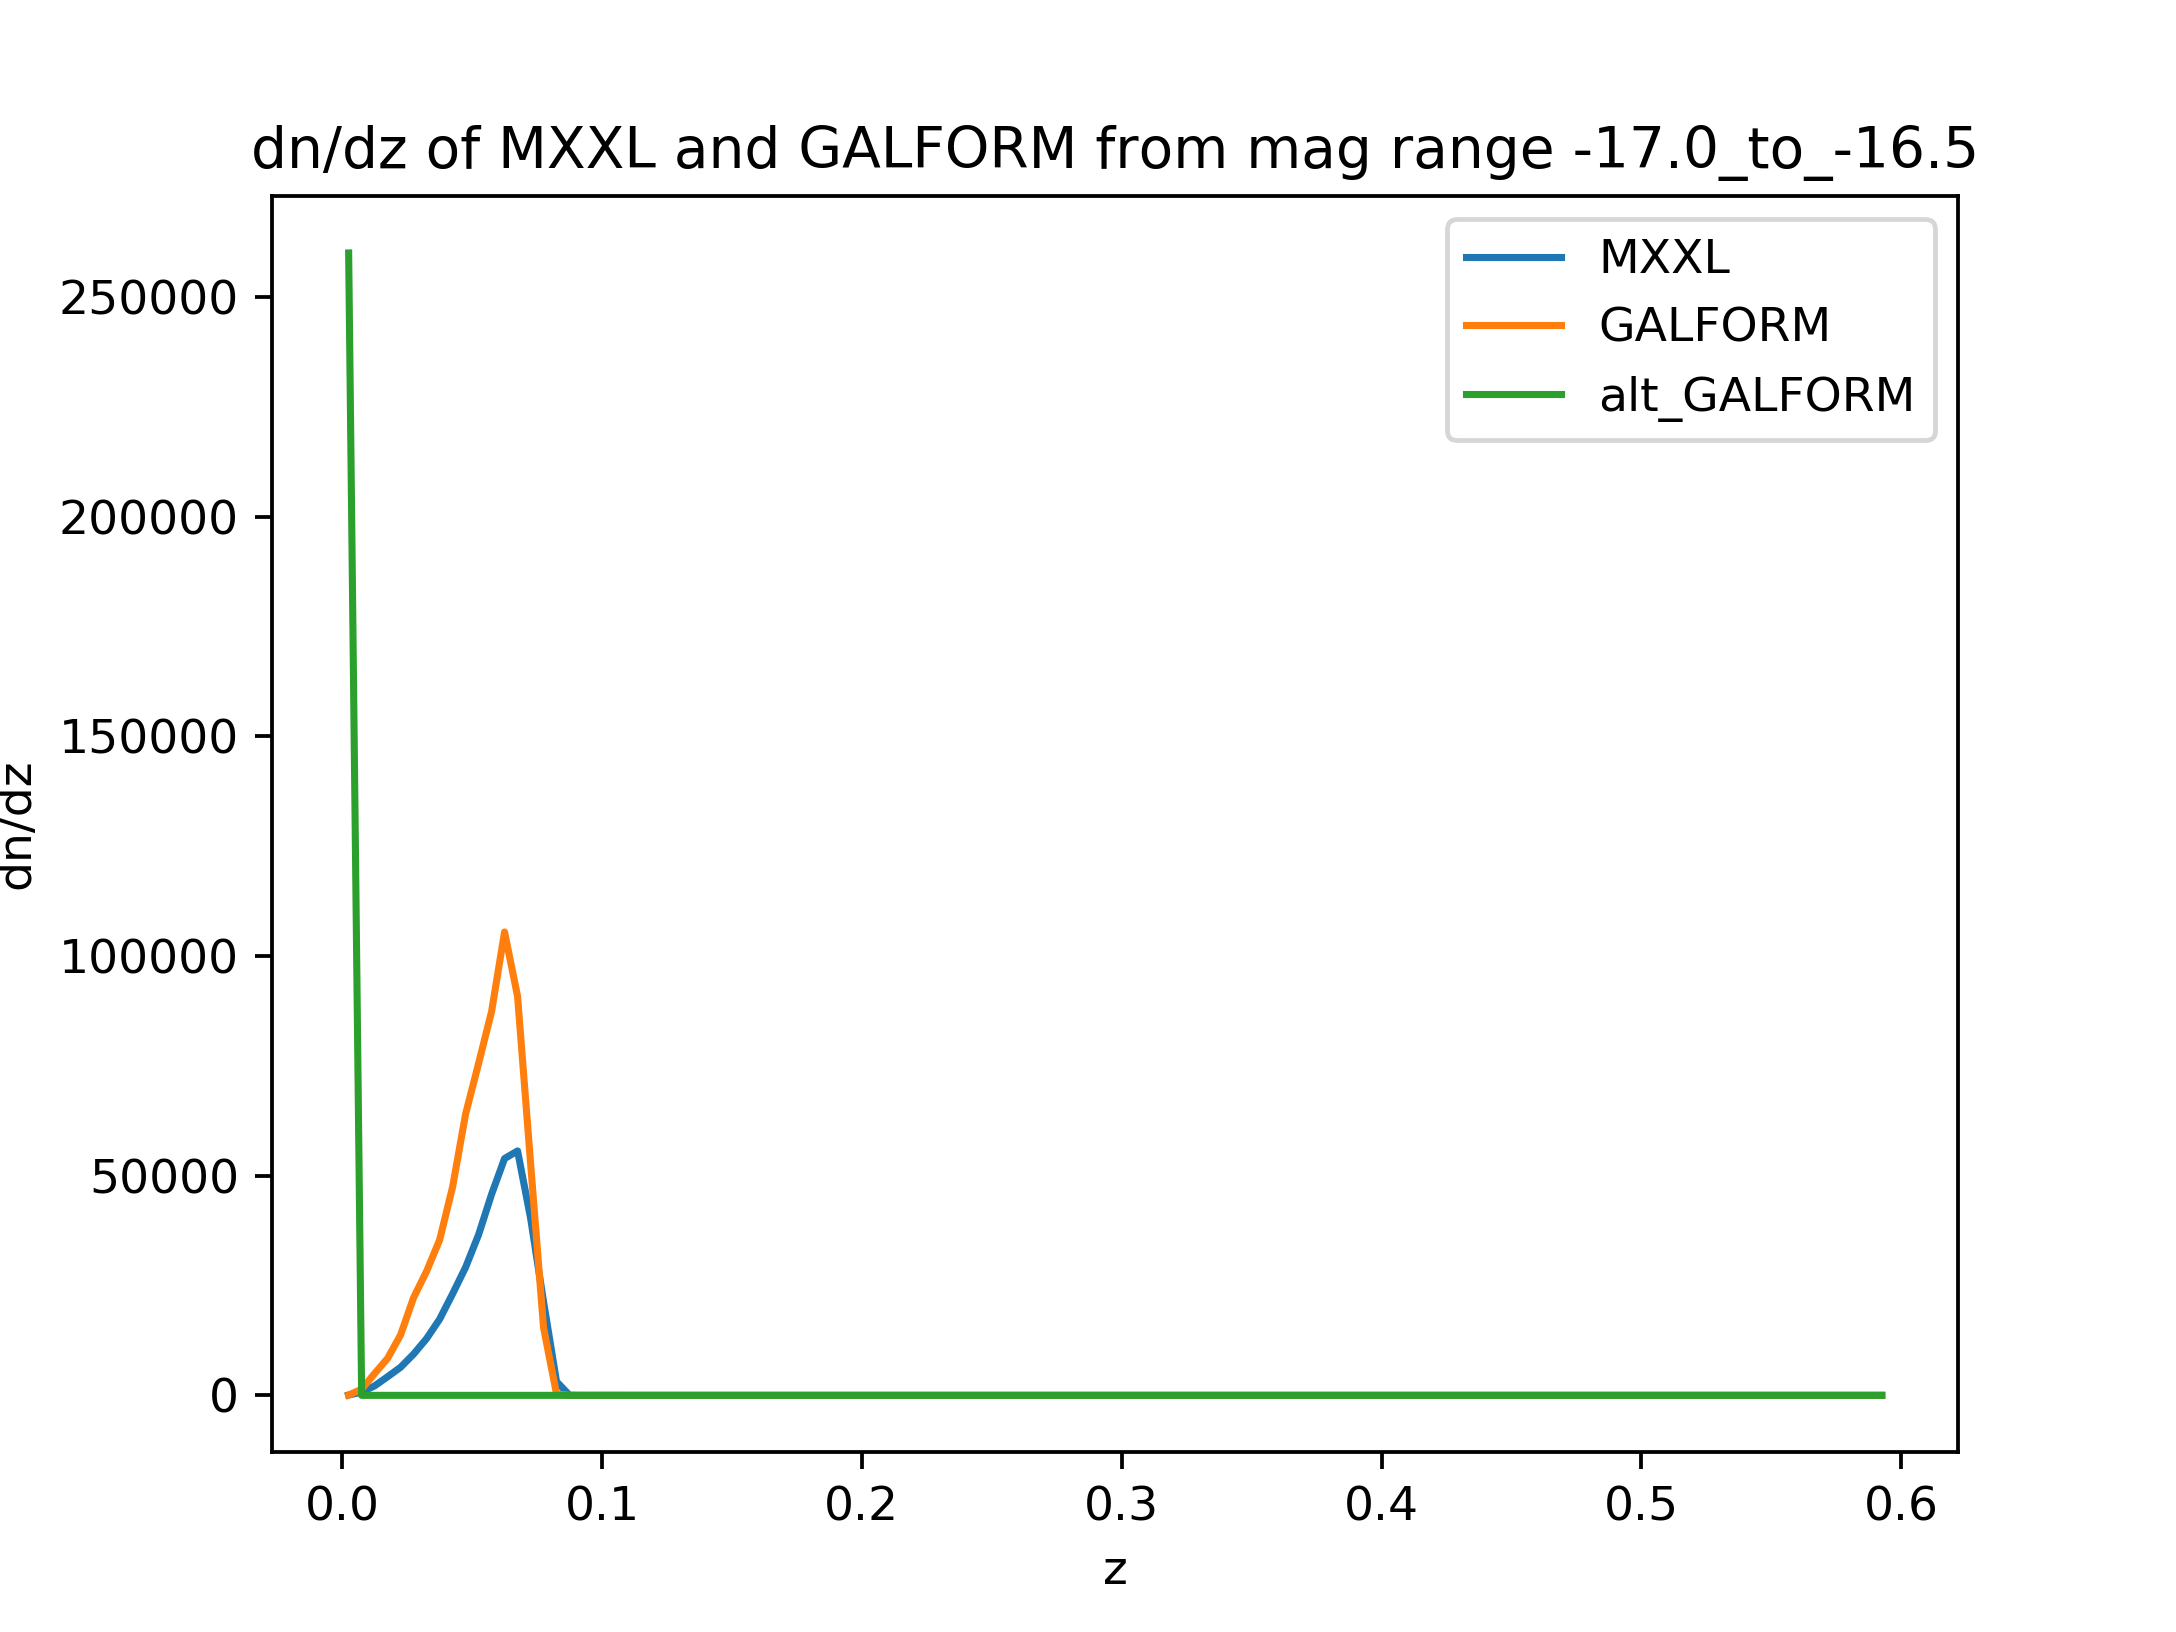
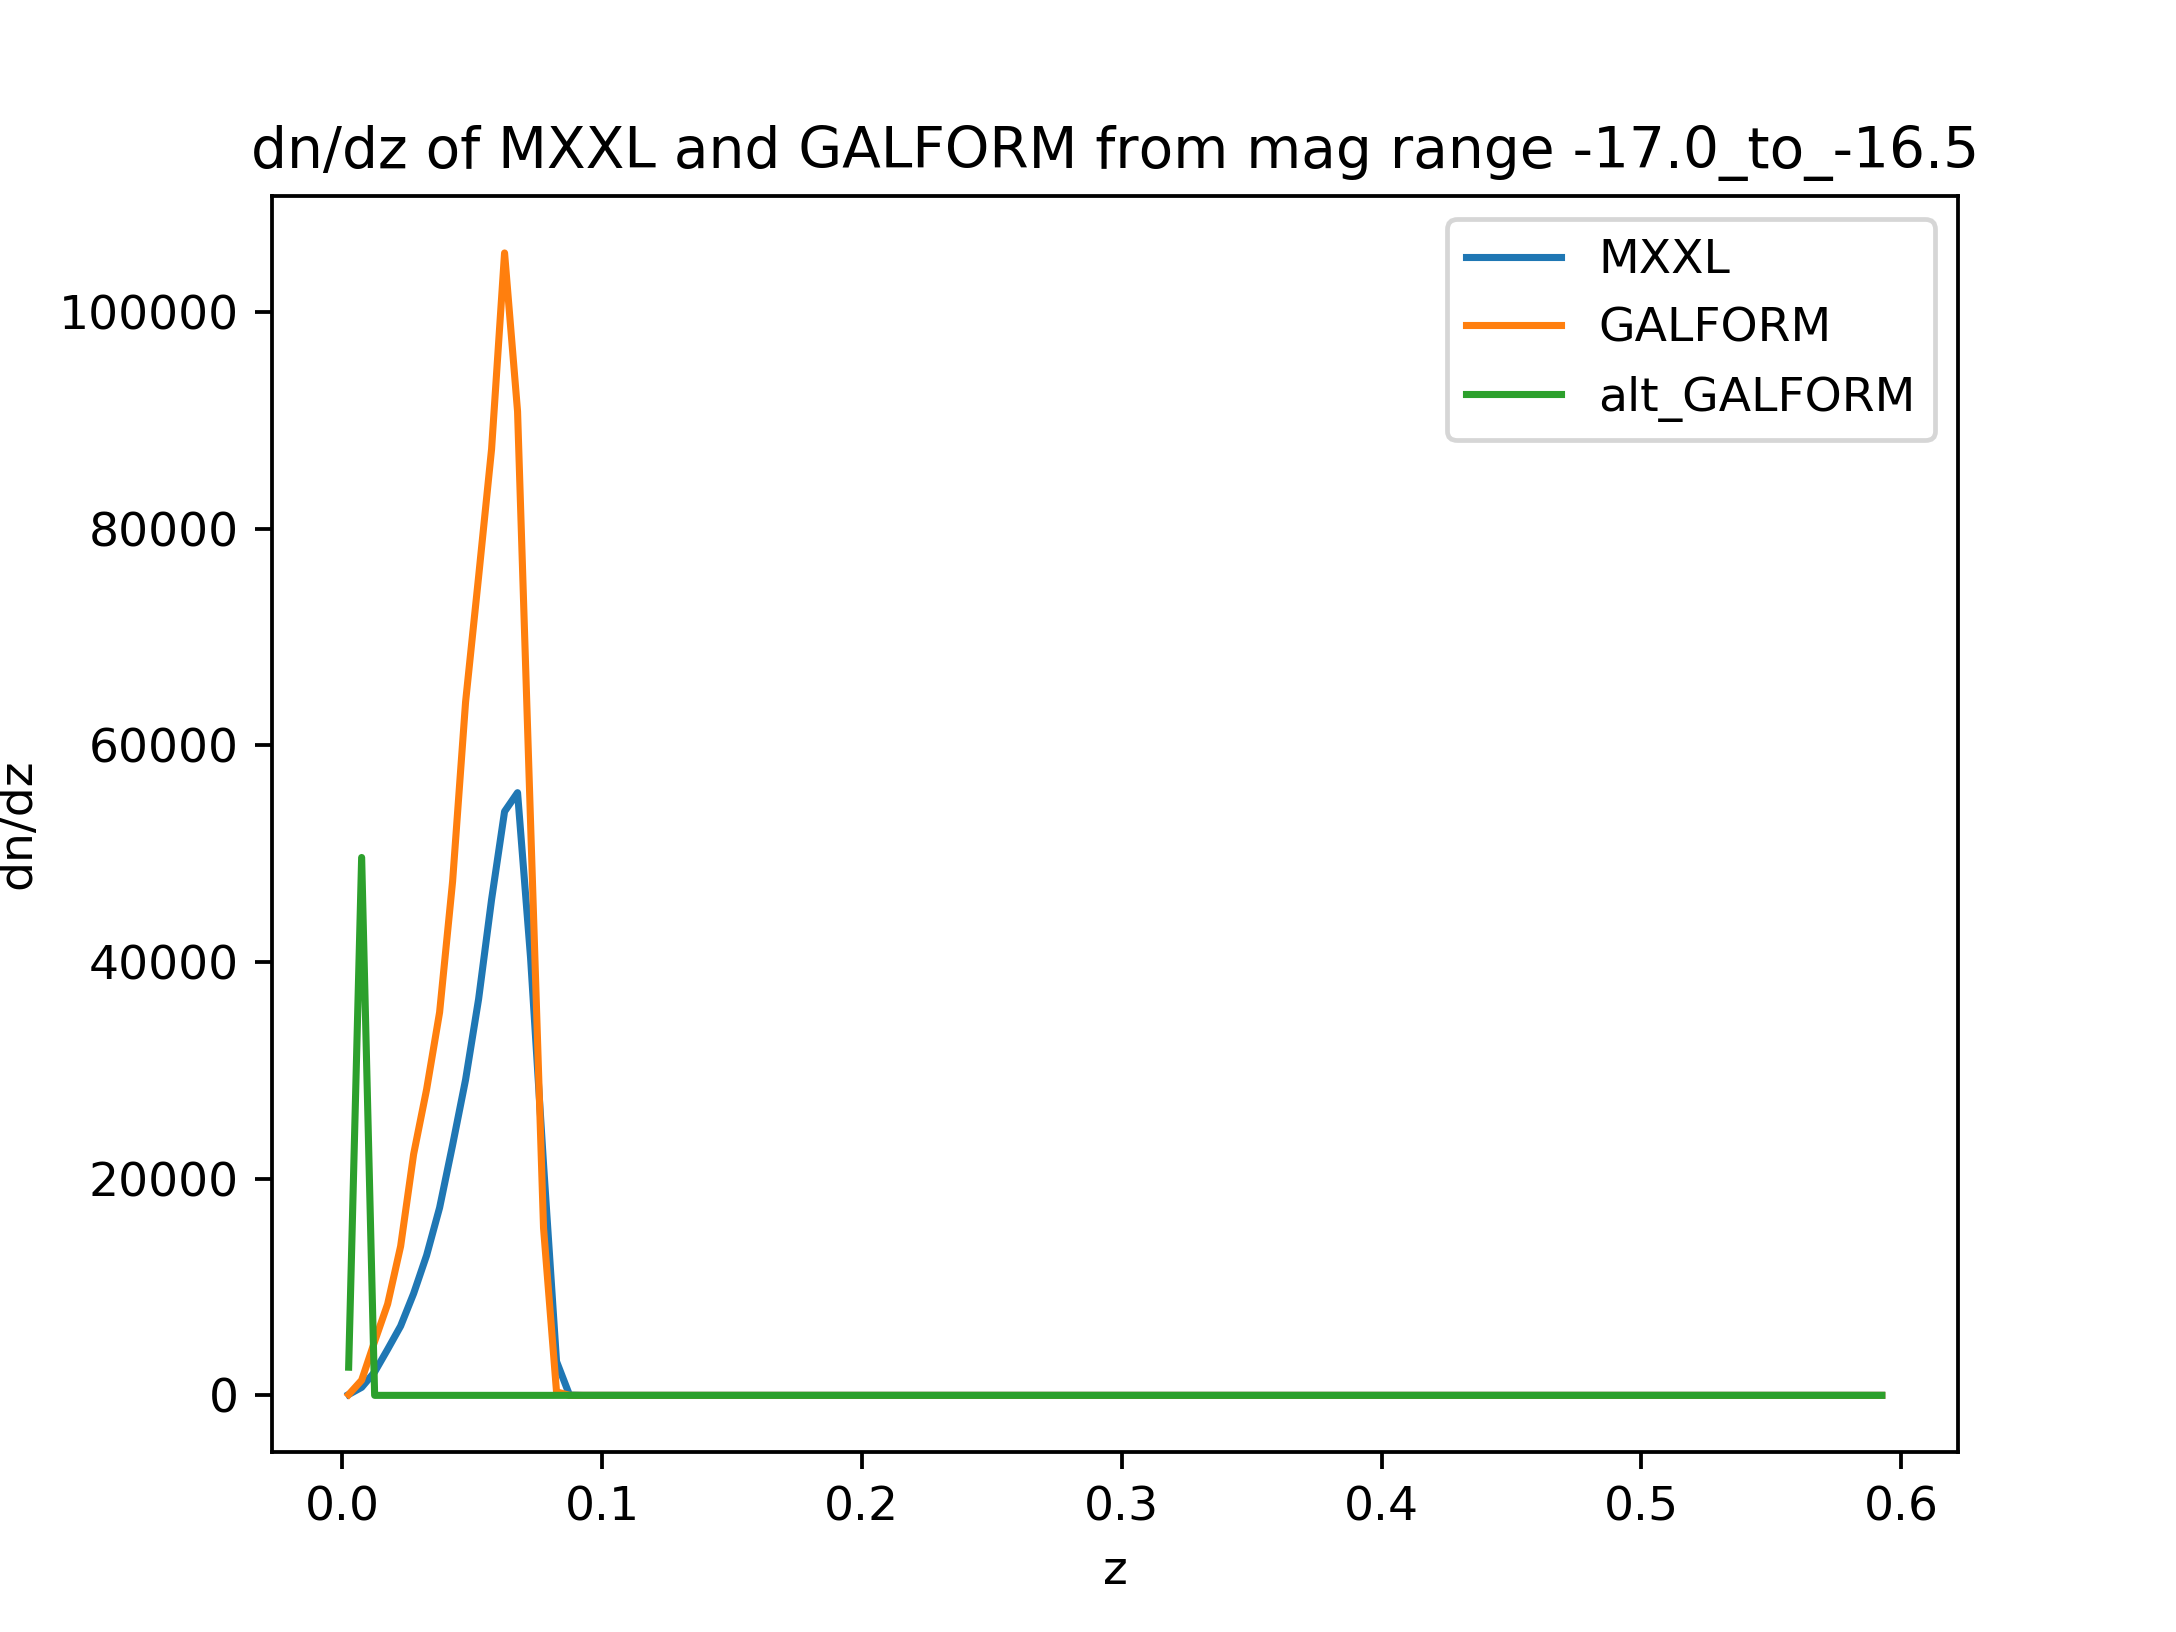
debugged, I think so

diff --git a/Main.py b/Main.py
@@ -42,7 +42,7 @@ Abs_App = 'Abs'
 
 Z_min = 0
 Z_max = 0.50
-Z_Sep = 0.005
+Z_Sep = 0.01
 # The choice of the redshift limit and the width of the each redshift range
 
 #
@@ -63,7 +63,7 @@ Automatic_Mode = 1
 # MANUAL CATALOGUE SETTINGS
 #
 
-Use_Auld_GALFORM_Catalogue = 0
+Use_Auld_GALFORM_Catalogue = 1
 ## Mainly a useless parameter, will be totally ignored in the auto-case
 
 Catalogue_Separation = 1
@@ -85,9 +85,9 @@ LF_Interpolation = '1-D Interpolation'
 Mag_limit_for_LF = 19.5
 k_correction = 1
 Cross_Iteration = 0
-Fractions = 1
+Fractions = 0.05
 
-Concatenate_Catalogues = 0
+Concatenate_Catalogues = 1
 # Plot the Luminosity Functions only or apply the correction to a new catalogue
 
 Color_Distribution = 0

diff --git a/Catalo.py b/Catalo.py
@@ -98,6 +98,7 @@ def Conca_Pica(Sp,Cache,ZM,xl,xu):
     Qata0 = h5py.File(rusgal0,'r')
     Nada = h5py.File(altgal,'w')
     for Yaoshi in Qata0.keys():
+        print (str(Yaoshi))
         Cada0 = Qata0[str(Yaoshi)]
         for i in range(1,len(xl)):
             x_l = xl[i];x_u = xu[i]
@@ -130,6 +131,7 @@ def Conca(x):
     
     x_low = np.round(x,5)
     x_up = np.round(x_low + np.round(x_sep,5),5)
+    
 
     Conca_Pica(Sp,Cache,ZM,x_low,x_up)
 

diff --git a/Lumino.py b/Lumino.py
@@ -293,7 +293,7 @@ def LFmain(y):
     galf_Omm = 0.307
     mxxl_Omm = 0.25
     apM = np.linspace(9.5**2,19.5**2,1000);app_M_bins = np.sqrt(apM)
-    abs_M_bins = np.arange(-30,-5,0.01)
+    abs_M_bins = np.arange(-30,-5,0.001)
     app_M_bins = np.arange(9.5,19.5,0.001)
 
     if ZorM < 0.5:
